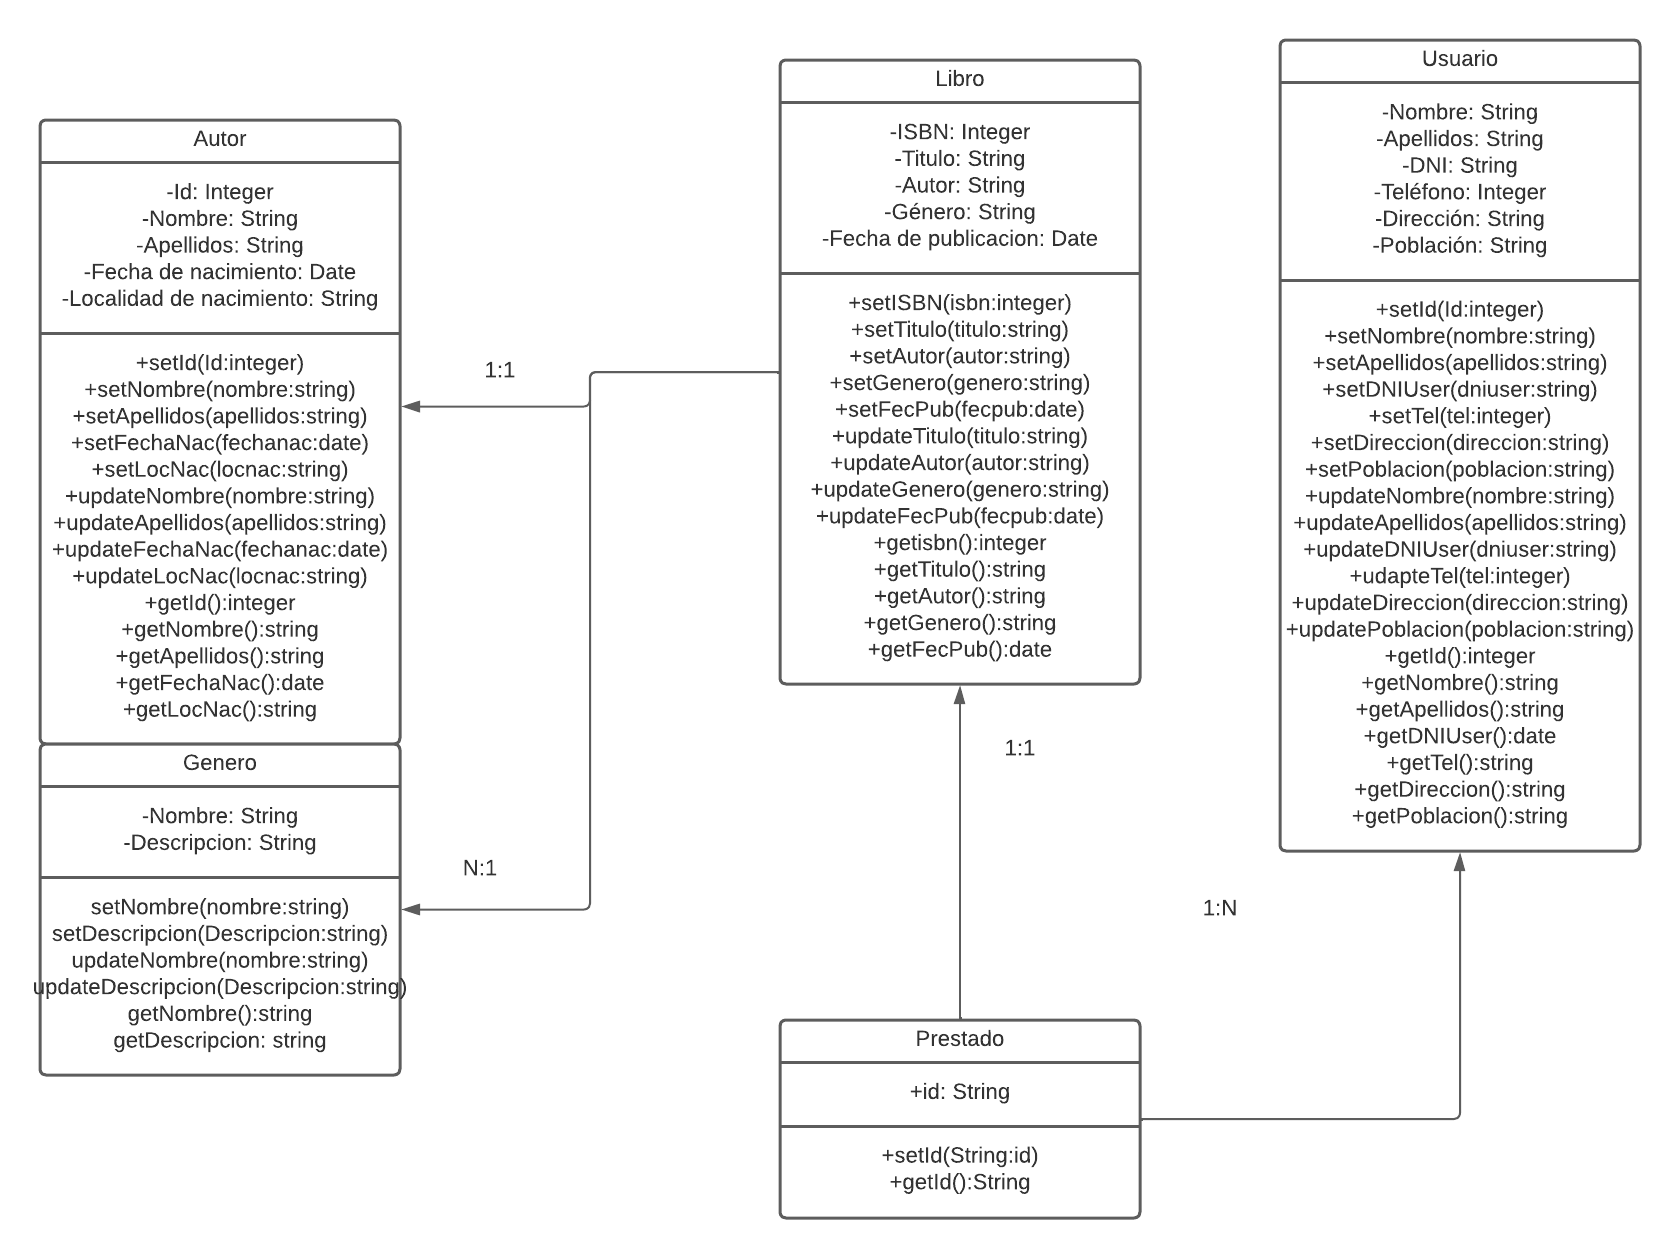
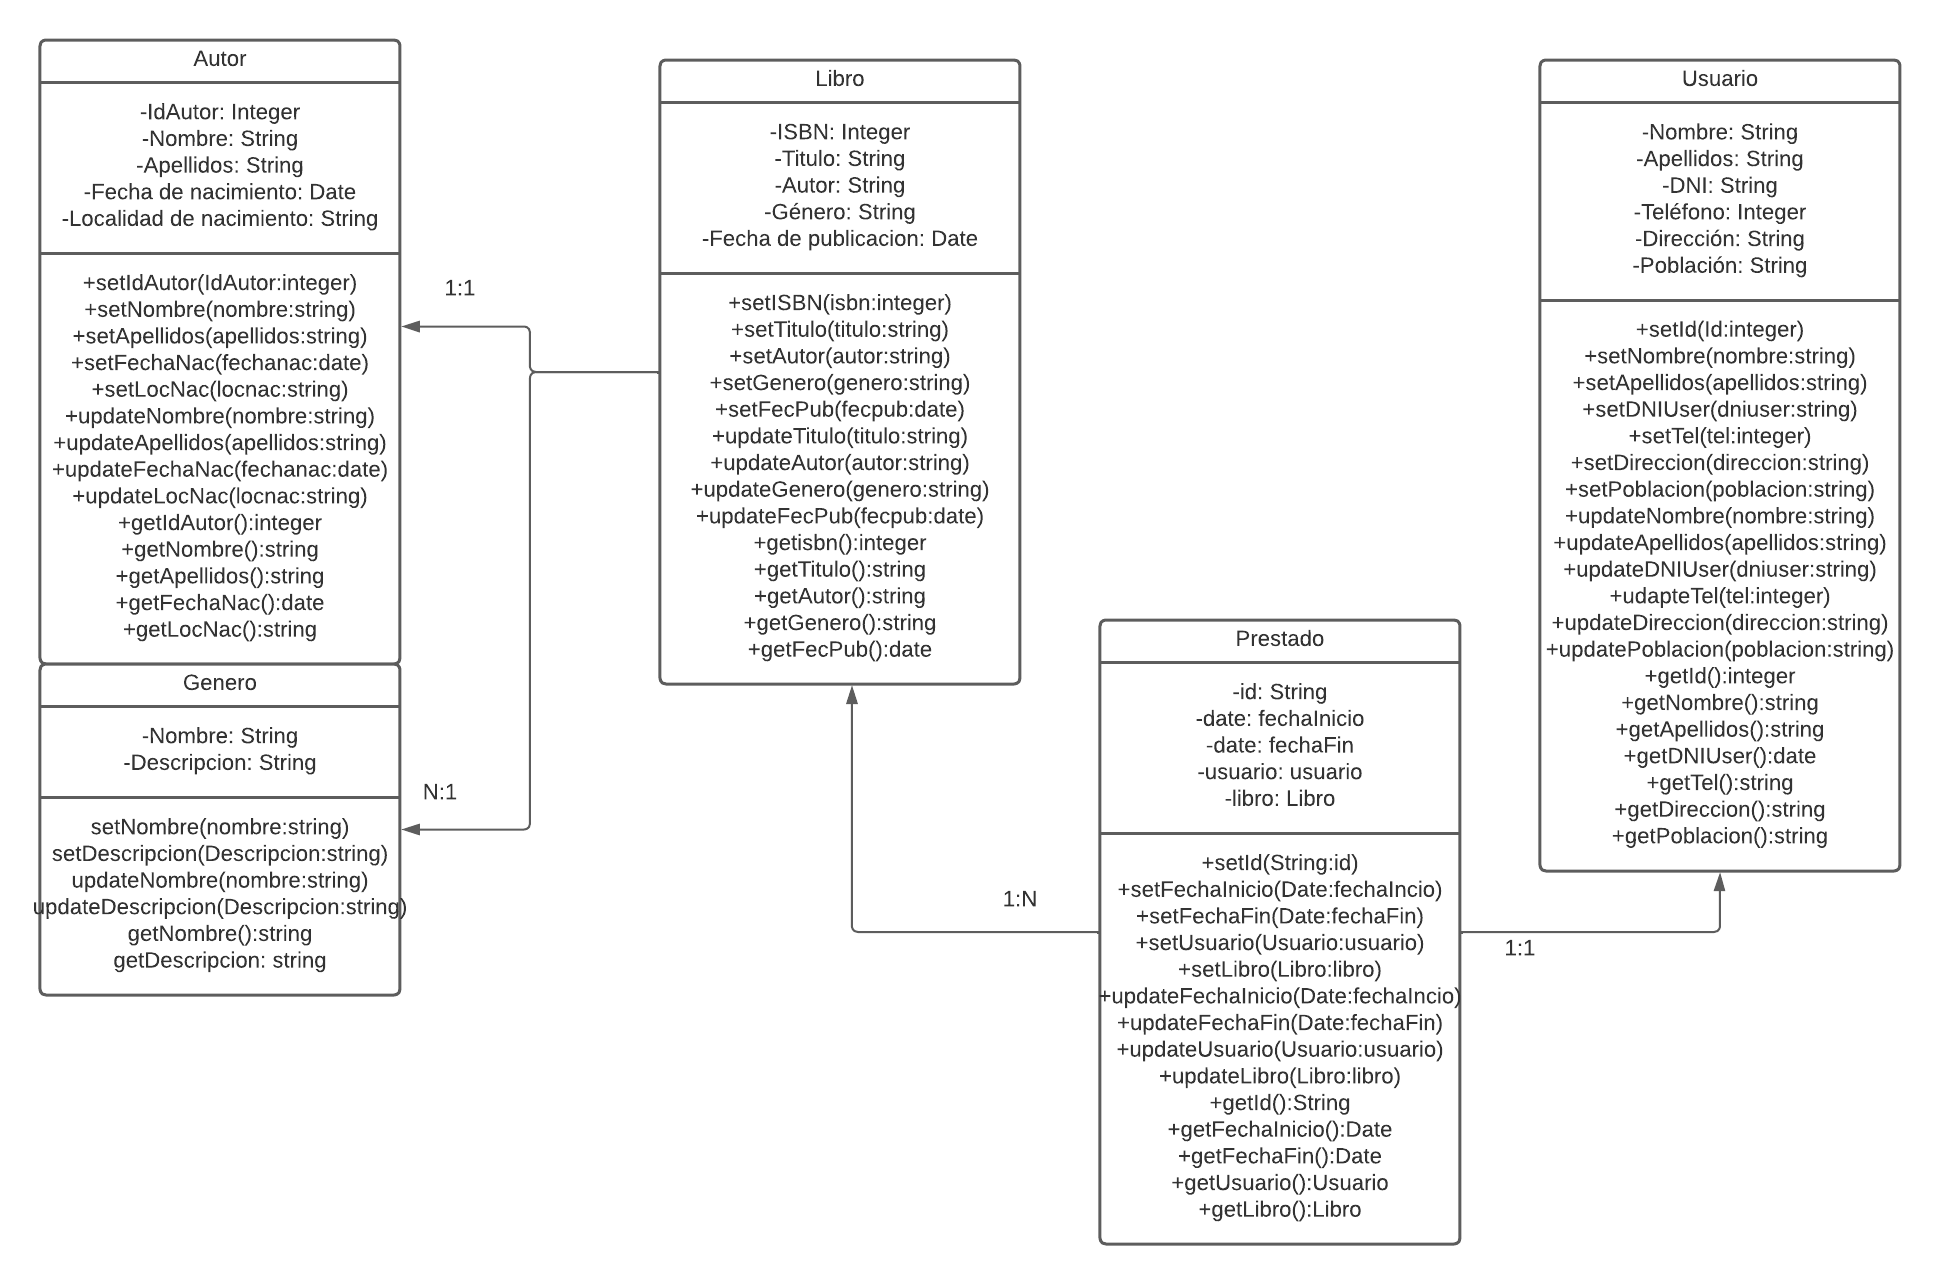
update de los atributos y nuevos atributos, update de la carpeta assets

diff --git a/src/com/phpereiservano/biblioteca/Usuario.java b/src/com/phpereiservano/biblioteca/Usuario.java
@@ -1,4 +1,52 @@
 package com.phpereiservano.biblioteca;
 
 public class Usuario {
+    private String nombre;
+    private String apellidos;
+    private String DNI;
+    private Integer telefono;
+    private String direccion;
+    private String poblacion;
+
+    public String getNombre() {
+        return nombre;
+    }
+    public void setNombre(String nombre) {
+        this.nombre = nombre;
+    }
+
+    public String getApellidos() {
+        return apellidos;
+    }
+    public void setApellidos(String apellidos) {
+        this.apellidos = apellidos;
+    }
+
+    public String getDNI() {
+        return DNI;
+    }
+    public void setDNI(String DNI) {
+        this.DNI = DNI;
+    }
+
+    public Integer getTelefono() {
+        return telefono;
+    }
+    public void setTelefono(Integer telefono) {
+        this.telefono = telefono;
+    }
+
+    public String getDireccion() {
+        return direccion;
+    }
+    public void setDireccion(String direccion) {
+        this.direccion = direccion;
+    }
+
+    public String getPoblacion() {
+        return poblacion;
+    }
+    public void setPoblacion(String poblacion) {
+        this.poblacion = poblacion;
+    }
 }

diff --git a/src/com/phpereiservano/biblioteca/Libro.java b/src/com/phpereiservano/biblioteca/Libro.java
@@ -1,4 +1,52 @@
 package com.phpereiservano.biblioteca;
 
+import java.util.Date;
+
 public class Libro {
+    private Integer ID;
+    private Integer ISBN;
+    private String titulo;
+    private String autor;
+    private String genero;
+    private String fechaPublicacion;
+
+    public Integer getID() {
+        return ID;
+    }
+    public void setID(Integer ID) {
+        this.ID = ID;
+    }
+
+    public Integer getISBN() {
+        return ISBN;
+    }
+    public void setISBN(Integer ISBN) {
+        this.ISBN = ISBN;
+    }
+
+    public String getTitulo() { return  titulo;}
+    public void setTitulo(String titulo) {
+        this.titulo = titulo;
+    }
+
+    public String getGenero() {
+        return genero;
+    }
+    public void setGenero(String genero) {
+        this.genero = genero;
+    }
+
+    public String getAutor() {
+        return autor;
+    }
+    public void setAutor(String autor) {
+        this.autor = autor;
+    }
+
+    public String getFechaPublicacion() {
+        return fechaPublicacion;
+    }
+    public void setFechaPublicacion(String fechaPublicacion) {
+        this.fechaPublicacion = fechaPublicacion;
+    }
 }

diff --git a/src/com/phpereiservano/biblioteca/Main.java b/src/com/phpereiservano/biblioteca/Main.java
@@ -1,7 +1,33 @@
 package com.phpereiservano.biblioteca;
 
-import com.phpereiservano.biblioteca.Genero;
+import java.util.Scanner;
 
 public class Main {
+    public static void main (String[]args) {
+
+        Libro libro = new Libro();
+        Scanner scanner = new Scanner(System.in);
+
+        System.out.println("Introduce el id del libro:");
+        libro.setID(scanner.nextInt());
+
+        System.out.println("Introduce el ISBN del libro:");
+        libro.setISBN(scanner.nextInt());
+
+        System.out.println("Introduce el titulo del libro:");
+        libro.setTitulo(scanner.next());
+
+        System.out.println("Introduce el autor del libro:");
+        libro.setAutor(scanner.next());
+
+        System.out.println("Introduce el genero del libro:");
+        libro.setGenero(scanner.next());
+
+        System.out.println("Introduce la fecha de publicacion del libro:");
+        libro.setFechaPublicacion(scanner.next());
+
+
+    }
+
 
 }

diff --git a/src/com/phpereiservano/biblioteca/Prestado.java b/src/com/phpereiservano/biblioteca/Prestado.java
@@ -1,4 +1,29 @@
 package com.phpereiservano.biblioteca;
 
+import java.util.Date;
+
 public class Prestado {
+
+        private Integer id;
+        private Date fechaInicio;
+        private Date fechaFin;
+        private Usuario usuario;
+        private Libro libro;
+
+        public Integer getId(){return id;}
+        public void setId (Integer id){this.id = id;}
+
+        public Date getFechaInicio(){return fechaInicio;}
+        public void setFechaInicio(Date fechaInicio){this.fechaInicio = fechaInicio;}
+
+        public Date getFechaFin(){return fechaFin;}
+        public void setFechaFin(Date startDate){this.fechaFin = fechaFin;}
+
+        public Usuario getUsuario() {return usuario;}
+        public void setUsuario(Usuario usuario) {this.usuario = usuario;}
+
+        public Libro getLibro() {return libro;}
+        public void setLibro(Libro libro) {this.libro = libro;}
+
+
 }

diff --git a/src/com/phpereiservano/biblioteca/Autor.java b/src/com/phpereiservano/biblioteca/Autor.java
@@ -7,7 +7,10 @@ public class Autor {
         private String nombre;
         private String apellidos;
         private Date fecNac;
+    //fecNac = Fecha de Nacimiento
         private String locNac;
+    //locNac = Localidad de Nacimiento
+
     public Integer getIdAutor() {
         return idAutor;
     }
@@ -23,13 +26,11 @@ public class Autor {
     public String getApellidos() {
         return apellidos;
     }
-
     public void setApellidos(String apellidos) {
         this.apellidos = apellidos;
     }
 
     public Date getFecNac() {return fecNac;}
-
     public void setFecNac(Date fecNac) {
         this.fecNac = fecNac;
     }
@@ -37,7 +38,6 @@ public class Autor {
     public String getLocNac() {
         return locNac;
     }
-
     public void setLocNac(String locNac) {
         this.locNac = locNac;
     }

diff --git a/src/com/phpereiservano/biblioteca/Genero.java b/src/com/phpereiservano/biblioteca/Genero.java
@@ -3,10 +3,10 @@ package com.phpereiservano.biblioteca;
 public class Genero {
     private String nombre;
     private String descripcion;
+
     public String getNombre() {
         return nombre;
     }
-
     public void setNombre(String nombre) {
         this.nombre = nombre;
     }
